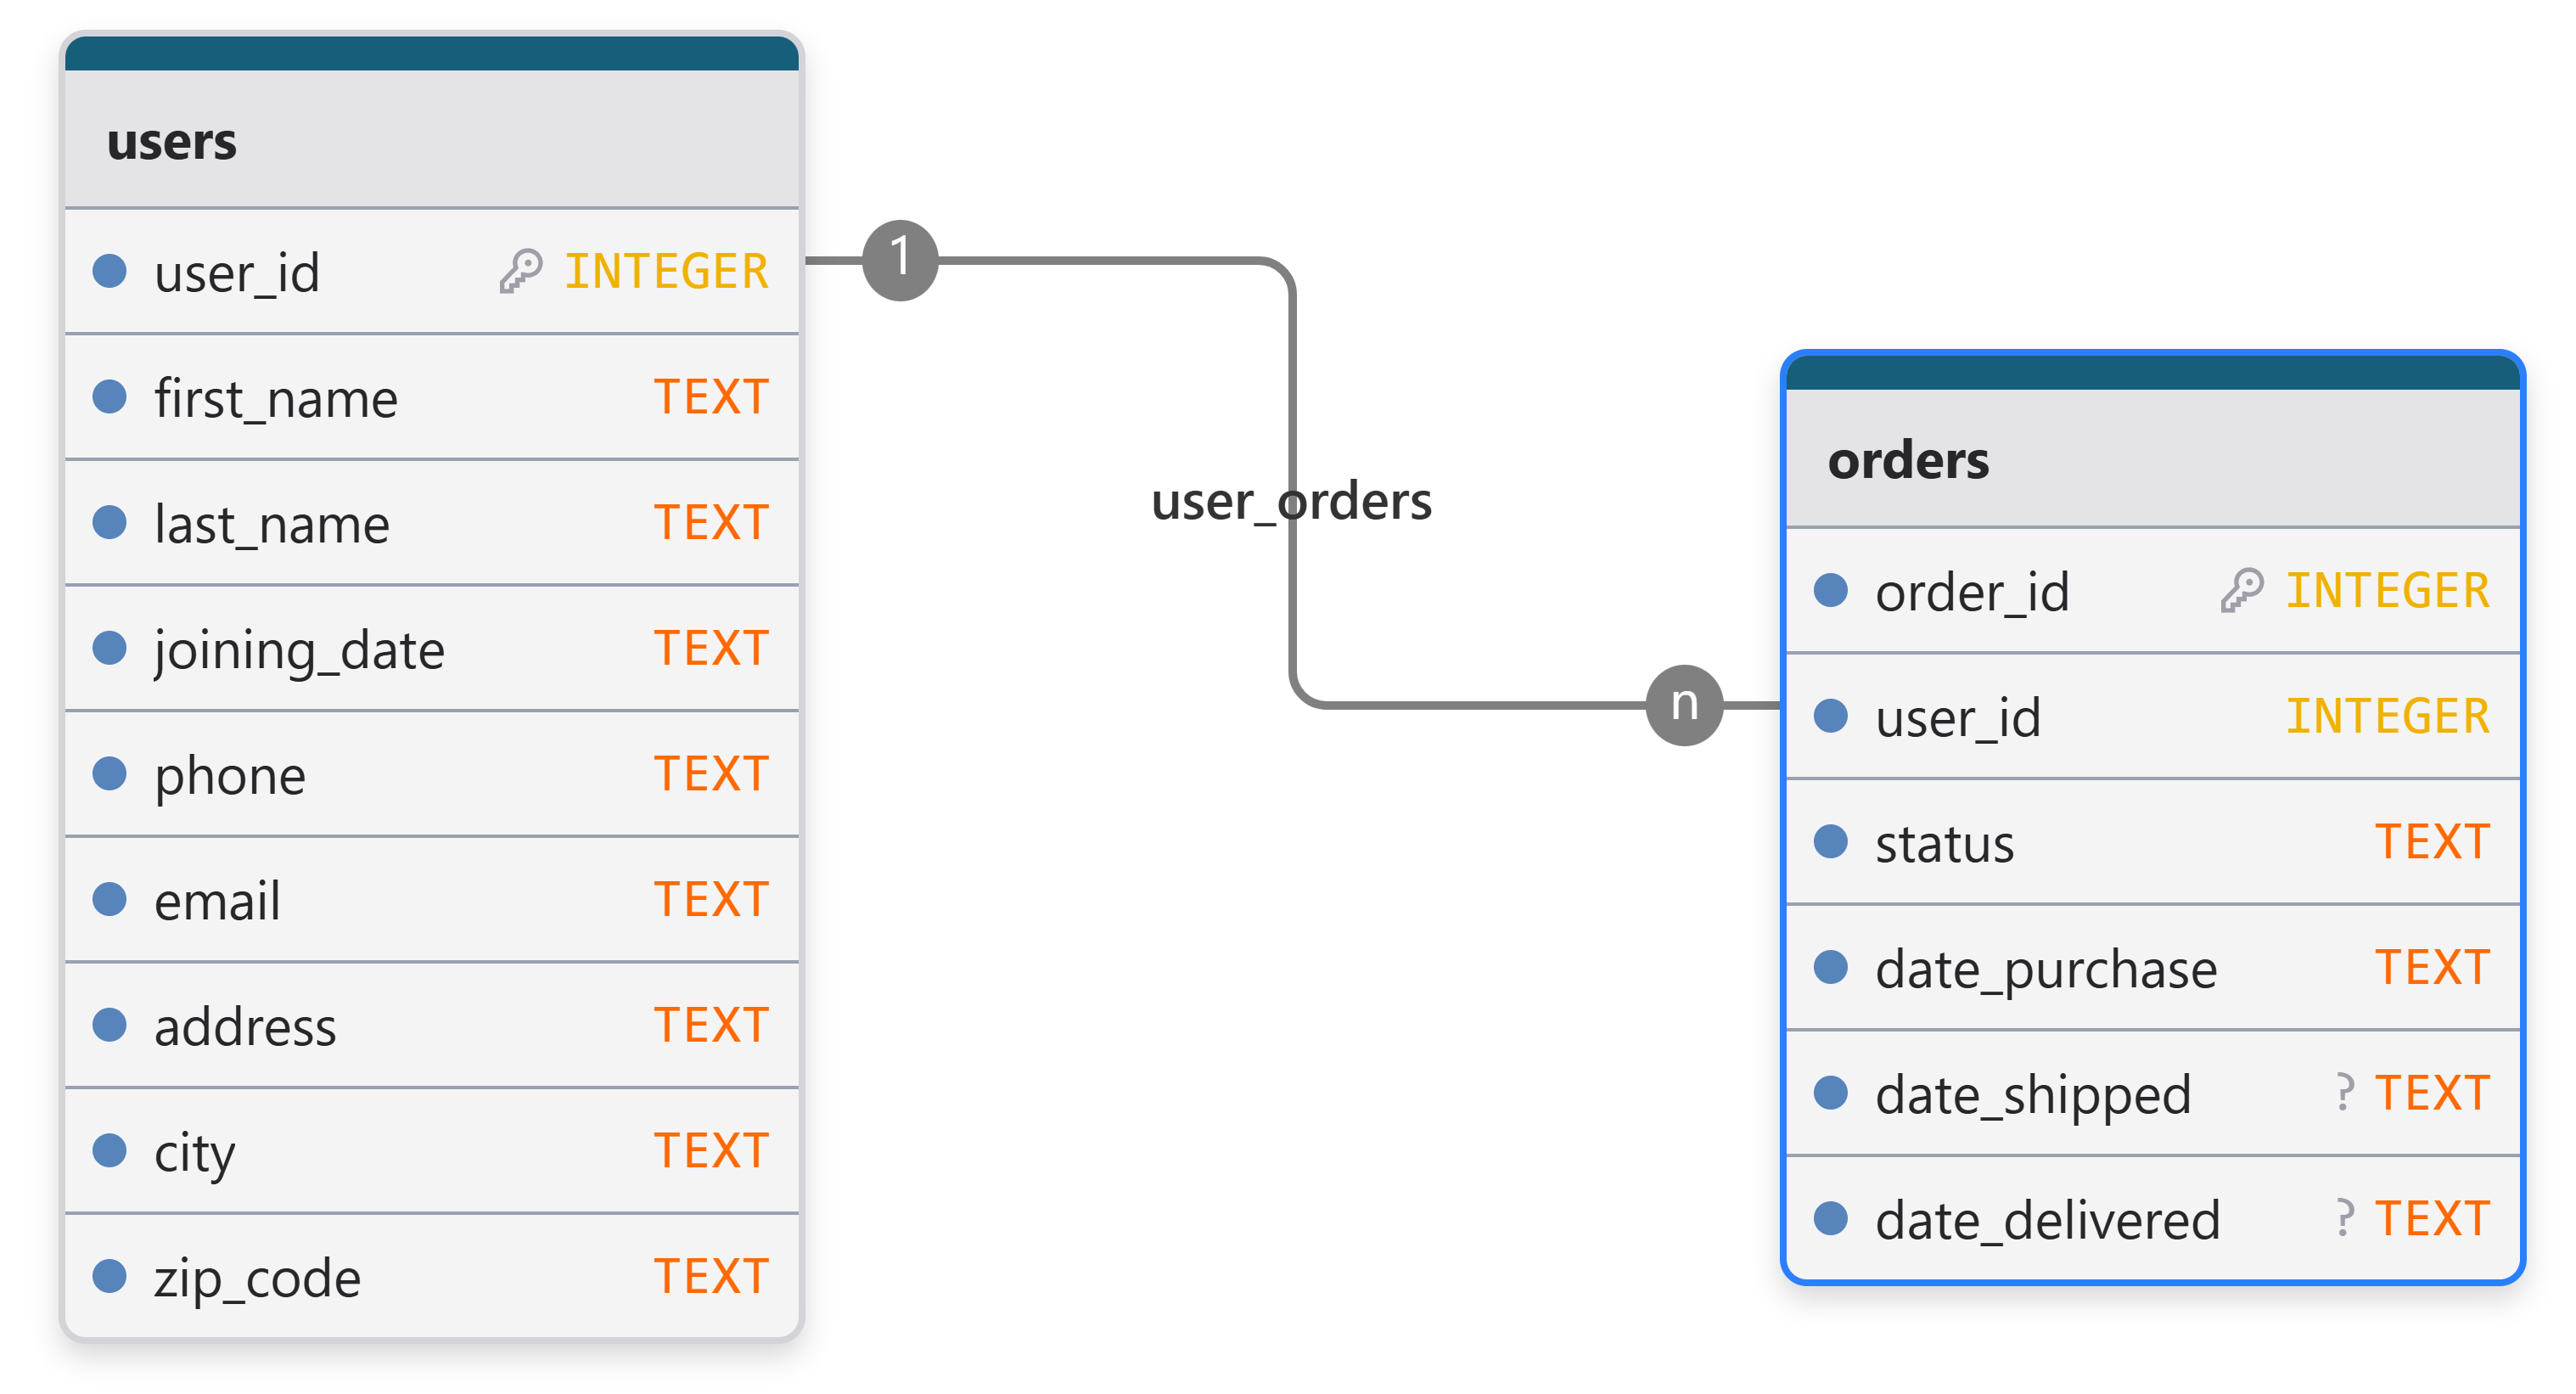
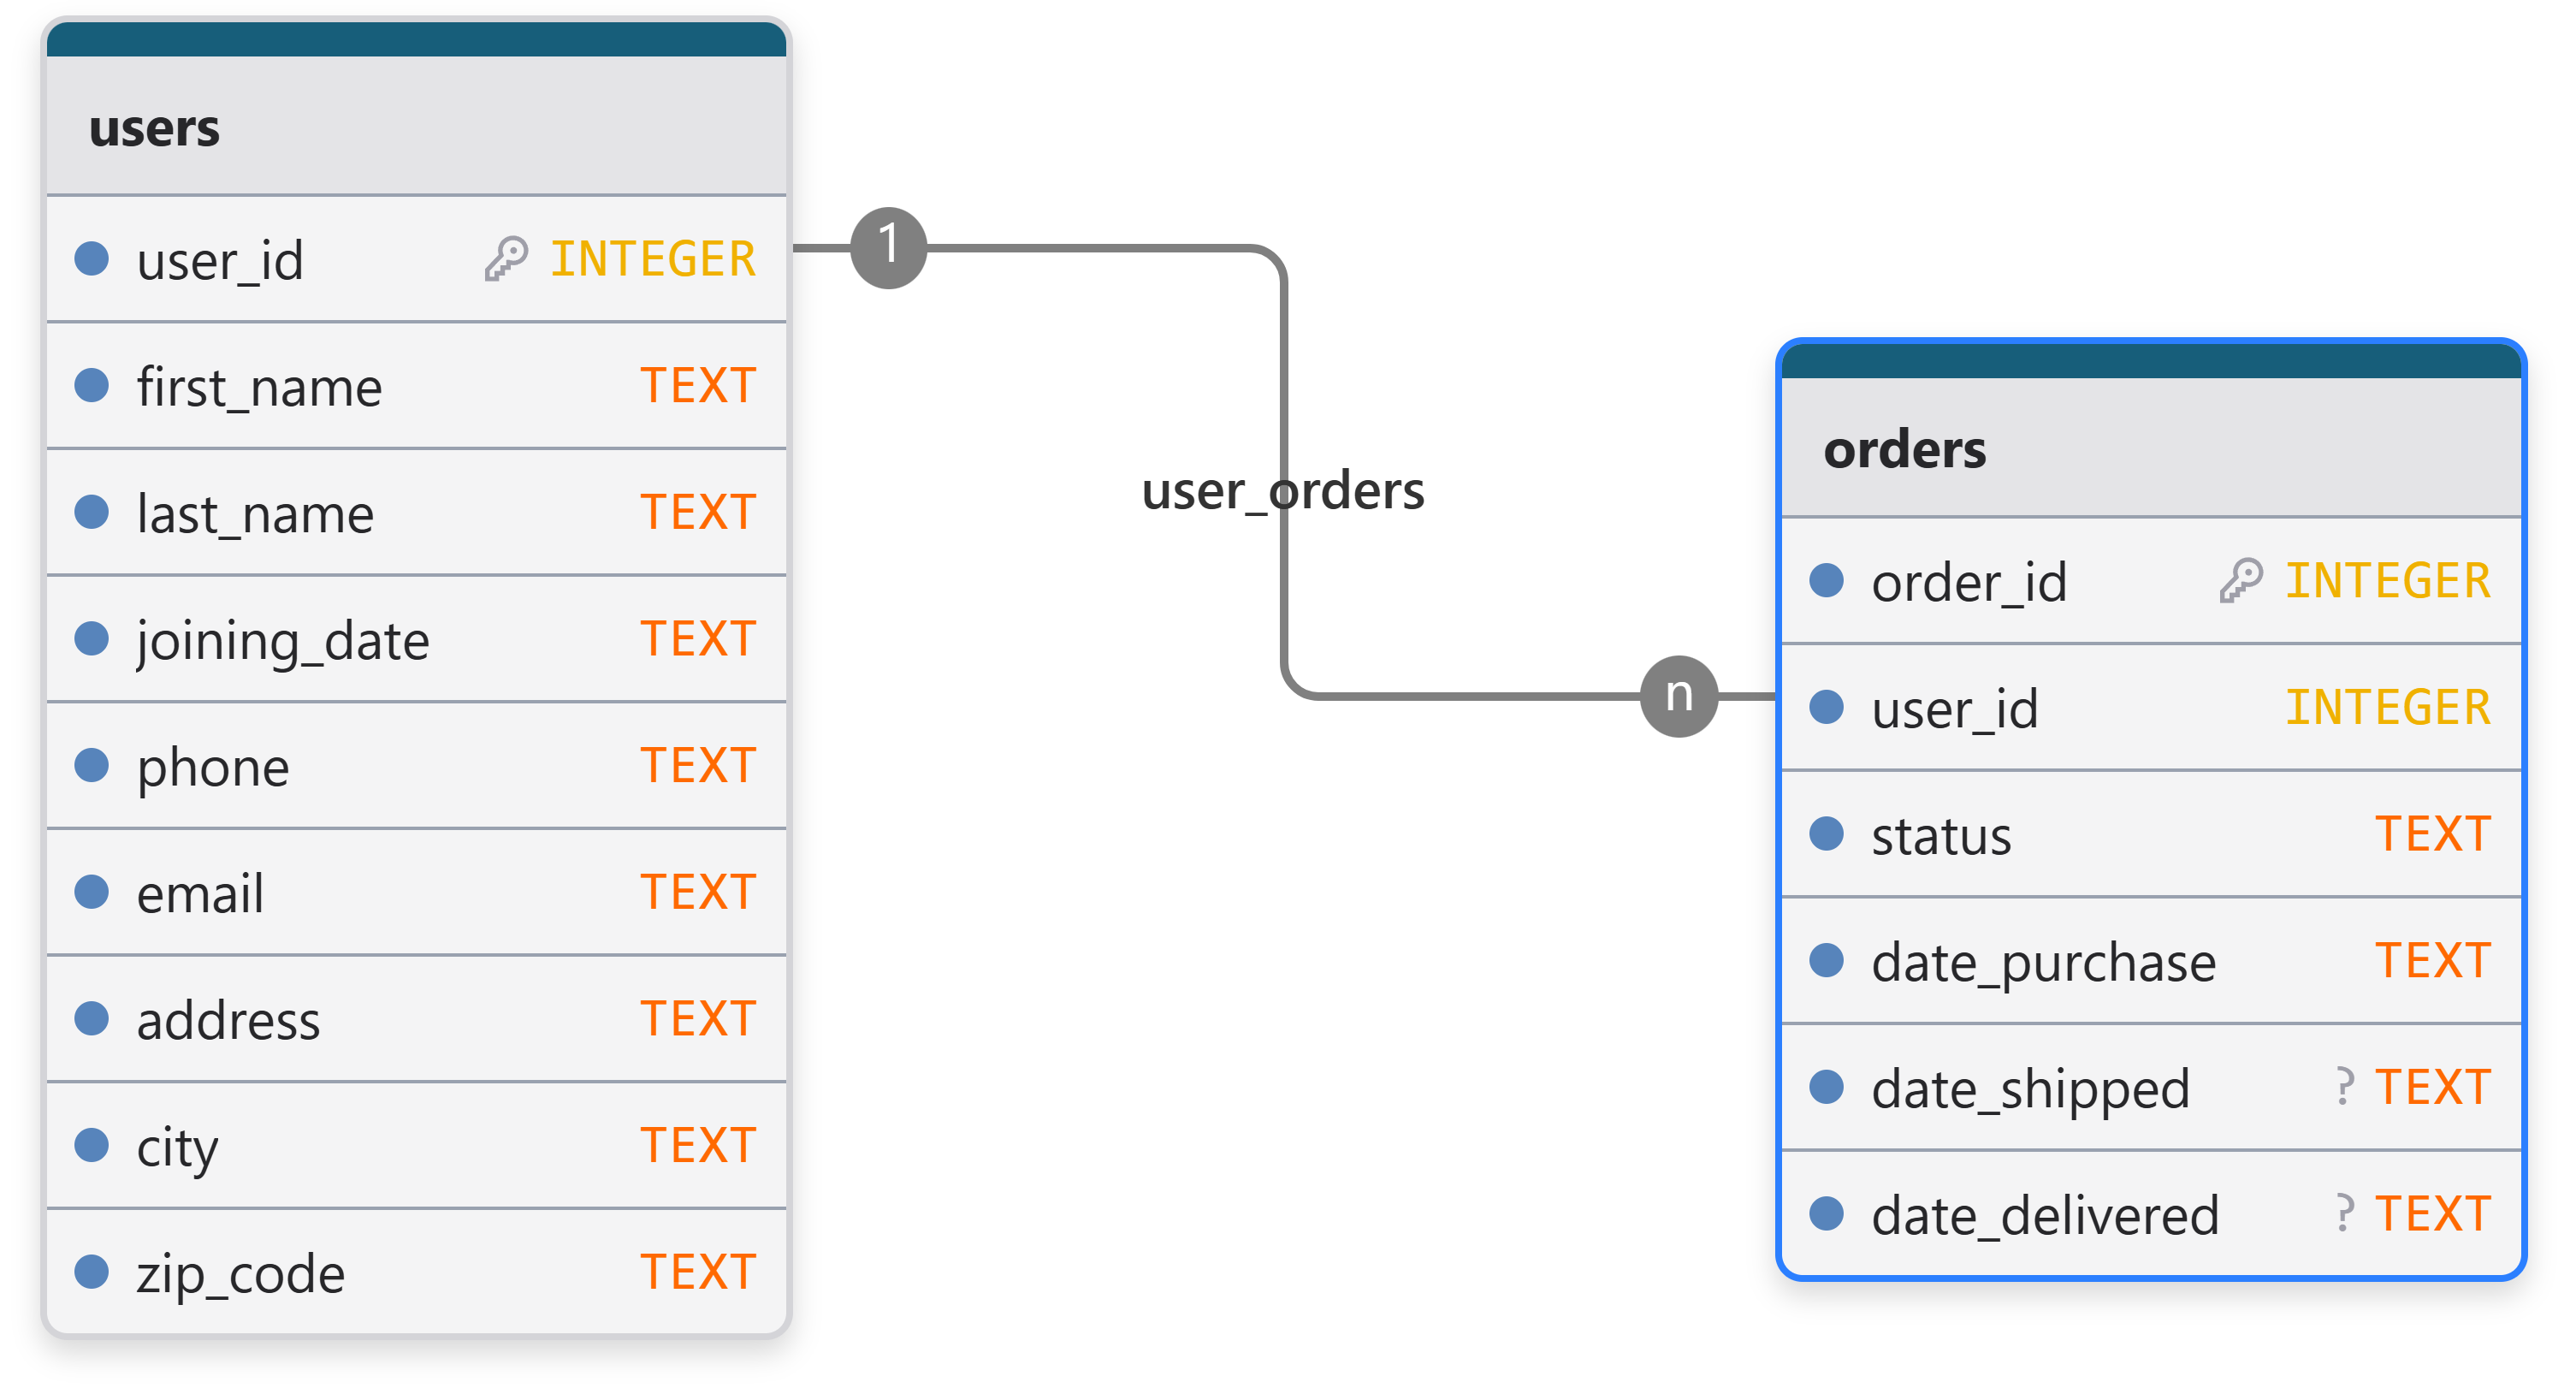
Correction du bug de réponse hors-schéma et mise à jour de l'interface
- Court-circuit LLM quand rows=None (SQL non exécuté ou en échec) pour éviter les
  réponses erronées sur les informations absentes de la base
- README mis à jour

diff --git a/src/app.py b/src/app.py
@@ -1,4 +1,5 @@
 from __future__ import annotations
+import dataclasses
 import uuid
 import streamlit as st
 from src.chain import build_graph, run_turn
@@ -7,23 +8,33 @@ from src.db import get_engine, get_user_by_email
 from src.llm import get_llm
 
 
[email redacted]_resource(show_spinner="Initialisation...")
-def _init_resources():
-    """Charge la configuration, le LLM et compile le graphe une fois."""
[email redacted]_resource(show_spinner=False)
+def _init_base():
+    """Charge la configuration et le moteur de base de données — sans LLM."""
     settings = load_settings()
     engine = get_engine(settings.db_path)
+    return settings, engine
+
+
[email redacted]_resource(show_spinner="Chargement du modèle...")
+def _get_graph(llm_backend: str):
+    """Charge le LLM et compile le graphe — une entrée de cache par backend."""
+    settings, engine = _init_base()
+    settings = dataclasses.replace(settings, llm_backend=llm_backend)
     llm = get_llm(settings)
-    graph = build_graph(
+    return build_graph(
         llm, engine,
         classifier_strategy=settings.classifier_strategy,
         advisor_phone=settings.advisor_phone,
     )
-    return settings, engine, graph
 
 
 def _sidebar_login(engine) -> dict | None:
     """Formulaire de connexion ou résumé du profil connecté."""
     with st.sidebar:
+        _, col, _ = st.columns([0.15, 0.7, 0.15])
+        with col:
+            st.image("assets/Logo rond assistant virtuel client.png", use_container_width=True)
         st.subheader("Identification")
 
         if "profile" not in st.session_state:
@@ -41,18 +52,26 @@ def _sidebar_login(engine) -> dict | None:
                         st.rerun()
         else:
             p = st.session_state.profile
-            st.success("Vous êtes connecté(e)")
             with st.container(border=True):
-                st.write(f"**Prénom :** {p['first_name']}")
-                st.write(f"**Nom :** {p['last_name']}")
-                st.write(f"**Email :** {p['email']}")
-                st.write(f"**Réf. client :** {p['user_id']}")
+                st.success("Vous êtes connecté(e)")
+                st.caption(f"**Prénom :** {p['first_name']}")
+                st.caption(f"**Nom :** {p['last_name']}")
+                st.caption(f"**Email :** {p['email']}")
+                st.caption(f"**Réf. client :** {p['user_id']}")
             if st.button("Se déconnecter", use_container_width=True):
                 for key in ["profile", "messages", "thread_id", "last_state"]:
                     st.session_state.pop(key, None)
                 st.rerun()
 
     return st.session_state.get("profile")
+
+def _sidebar_options() -> str:
+    """Expander Options — retourne le backend LLM sélectionné ('local' | 'api')."""
+    with st.sidebar:
+        with st.expander("Options", expanded=False):
+            use_api = st.toggle("API Mistral", value=False)
+            st.caption("Local (modèle quantisé)" if not use_api else "API Mistral hébergée")
+    return "api" if use_api else "local"
 
 
 def _sidebar_log(state: dict) -> None:
@@ -80,9 +99,23 @@ def _welcome_message(first_name: str) -> str:
 def main() -> None:
     st.set_page_config(page_title="Assistant service client", page_icon="🛒")
     st.title("Assistant service client")
+    st.markdown(
+        """
+        <style>
+        [data-testid="stMarkdownContainer"] hr {
+            margin-top: 0.25rem;
+            margin-bottom: 1.25rem;
+            border-top: 0.5px solid rgba(49, 51, 63, 0.2);
+        }
+        </style>
+        """,
+        unsafe_allow_html=True,
+    )
 
-    settings, engine, graph = _init_resources()
+    settings, engine = _init_base()
     profile = _sidebar_login(engine)
+    st.sidebar.divider()
+    llm_backend = _sidebar_options()
 
     if profile is None:
         st.info("Identifiez-vous dans la barre latérale pour commencer.")
@@ -106,6 +139,7 @@ def main() -> None:
 
         with st.chat_message("assistant"):
             with st.spinner("Recherche en cours..."):
+                graph = _get_graph(llm_backend)
                 state = run_turn(
                     graph,
                     user_id=profile["user_id"],

diff --git a/src/chain/graph.py b/src/chain/graph.py
@@ -103,30 +103,41 @@ def _node_generate_sql(state: GrapheState, *, llm: BaseChatModel) -> GrapheState
 def _node_execute_sql(state: GrapheState, *, engine: Engine) -> GrapheState:
     sql = state.get("sql") or ""
 
-    # Recherche la présence de mots interdits dans la requête
+    # Toutes les gardes ci-dessous retournent rows=None : le SQL n'a pas été exécuté,
+    # ce qui déclenche la réponse courte "information non disponible" dans format_answer.
     if BLACKLIST_SQL.search(sql):
-        return {**state, "rows": [], "sql": None}
+        return {**state, "rows": None, "sql": None}
 
-    # Filtre sur le fait que la requête soit bien une SELECT
     if not sql.lstrip().lower().startswith("select"):
-        return {**state, "rows": [], "sql": None}
+        return {**state, "rows": None, "sql": None}
 
-    # Vérifie programmatiquement que le filtre user_id est présent, sans se fier au LLM.
     if ":user_id" not in sql:
-        return {**state, "rows": [], "sql": None}
+        return {**state, "rows": None, "sql": None}
 
     try:
         rows = run_select(engine, sql, {"user_id": state["user_id"]})
     except Exception:
-        rows = []
+        # None signale une erreur d'exécution (schéma manquant, colonne inexistante...)
+        # à distinguer d'un résultat vide légitime (rows = []).
+        rows = None
     return {**state, "rows": rows}
 
 # Noeud de génération de la réponse - 2ème appel du LLM
 def _node_format_answer(state: GrapheState, *, llm: BaseChatModel) -> GrapheState:
     profile = state["user_profile"]
-    rows = state.get("rows") or []
+    rows = state.get("rows")
 
-    # Assemblage du contexte
+    # rows = None → la requête SQL a échoué (table ou colonne absente du schéma).
+    # Cas déterministe : on court-circuite le LLM pour éviter toute hallucination.
+    if rows is None:
+        answer = (
+            "Je n'ai pas accès à cette information. "
+            "Pour plus de détails, n'hésitez pas à contacter notre service client."
+        )
+        new_entry = [{"question": state["question"], "sql": state.get("sql") or "", "answer": answer}]
+        return {**state, "answer": answer, "history": new_entry}
+
+    # rows = [] → requête valide mais aucun résultat correspondant
     context = (
         f"Client : {profile.get('first_name')} {profile.get('last_name')} "
         f"({profile.get('email')}).\n"

diff --git a/README.md b/README.md
@@ -21,94 +21,6 @@ L'assistant reçoit une question en français, identifie son intention, génère
 - Historique de conversation multi-tours via LangGraph `MemorySaver`
 - Deux stratégies de classification d'intention : LLM structuré ou embeddings sémantiques
 
-## Architecture
-
-![Graphe LangGraph](assets/graph.png)
-
-Le pipeline suit trois chemins selon l'intention détectée :
-
-- **commande / compte** → génération SQL → exécution → reformulation en langage naturel
-- **action_commande** → redirection vers un conseiller avec numéro de contact
-- **hors_sujet / hostile** → refus poli ou rejet sans réponse
-
-## Stack technique
-
-| Composant | Outil |
-|---|---|
-| Interface | Streamlit |
-| Orchestration LLM | LangGraph |
-| LLM (cloud) | Mistral AI via `langchain-mistralai` |
-| LLM (local) | HuggingFace Transformers + quantisation FP8 |
-| Classification sémantique | `sentence-transformers` |
-| Base de données | SQLite (SQLAlchemy, mode lecture seule) |
-| Validation | Pydantic |
-| Gestionnaire de paquets | uv |
-| Qualité | Ruff, mypy, pytest, pre-commit |
-| CI | GitHub Actions |
-| Conteneurisation | Docker |
-
-## Prérequis
-
-- Python 3.11+
-- [uv](https://docs.astral.sh/uv/) installé
-- Une clé API Mistral (backend `api`) — ou un GPU avec au moins 16 Go de VRAM (backend `local`)
-
-## Installation
-
-```bash
-git clone <repo-url>
-cd customer-service-assistant
-
-# Dépendances de développement
-uv sync --extra dev
-
-# Variables d'environnement
-cp .env.example .env
-# Renseigner au minimum MISTRAL_API_KEY et DB_PATH
-```
-
-Pour le backend local (modèle quantisé, téléchargement ~15 Go) :
-
-```bash
-uv sync --extra dev --extra local
-```
-
-## Configuration
-
-Toutes les variables sont définies dans `.env` (voir `.env.example`) :
-
-| Variable | Description | Valeurs |
-|---|---|---|
-| `DB_PATH` | Chemin vers la base SQLite | `data/raw/orders.db` |
-| `LLM_BACKEND` | Backend LLM | `api` \| `local` |
-| `MISTRAL_API_KEY` | Clé API Mistral | `sk-...` |
-| `MISTRAL_MODEL` | Modèle Mistral hébergé | `mistral-small-latest` |
-| `LOCAL_MODEL_ID` | Modèle HuggingFace (backend local) | `mistralai/Ministral-3-14B-Instruct-2512` |
-| `LOCAL_DEVICE_MAP` | Mapping GPU/CPU | `auto` |
-| `CLASSIFIER_STRATEGY` | Stratégie de classification d'intention | `llm` \| `semantic` |
-| `ADVISOR_PHONE` | Numéro affiché pour les demandes d'action | `06.07.06.07.06` |
-| `ENV` | Environnement d'exécution | `development` \| `production` |
-| `LOG_LEVEL` | Niveau de log | `INFO` |
-
-## Lancer l'application
-
-```bash
-uv run streamlit run src/app.py
-```
-
-L'interface est accessible sur `http://localhost:8501`.
-
-### Via Docker
-
-```bash
-docker build -t customer-service-assistant .
-
-docker run -p 8501:8501 \
-  -v $(pwd)/data:/app/data \
-  --env-file .env \
-  customer-service-assistant
-```
-
 ## Base de données
 
 ![Schéma SQL](docs/Schema_sql_customer_service.png)
@@ -138,18 +50,6 @@ La base SQLite (`data/raw/orders.db`) contient deux tables :
 
 Le schéma de référence est disponible dans [`docs/schema.sql`](docs/schema.sql).
 
-## Tests
-
-```bash
-# Suite complète
-uv run pytest
-
-# Avec rapport de couverture
-uv run pytest --cov=src --cov-report=term-missing
-```
-
-Les tests couvrent la validation SQL (sécurité et cloisonnement), le classificateur sémantique et le chargement des prompts YAML.
-
 ## Structure du projet
 
 ```
@@ -168,6 +68,94 @@ Les tests couvrent la validation SQL (sécurité et cloisonnement), le classific
 ├── Dockerfile
 └── pyproject.toml
 ```
+
+## Architecture de la partie langchain
+
+![Graphe LangGraph](docs/graph.png)
+
+Le pipeline suit trois chemins selon l'intention détectée :
+
+- **commande / compte** pour les demandes légitimes auxquelles l'assistant peut répondre → génération SQL → exécution → reformulation en langage naturel
+- **action_commande** pour les demandes légitimes auxquelles l'assistant ne peut pas répondre → redirection vers un conseiller avec numéro de contact
+- **hors_sujet / hostile** pour les demandes inappropriées → refus poli ou rejet sans réponse
+
+## Stack technique
+
+| Composant | Outil |
+|---|---|
+| Interface | Streamlit |
+| Orchestration LLM | LangGraph |
+| LLM (cloud) | Mistral AI via `langchain-mistralai` |
+| LLM (local) | HuggingFace Transformers + quantisation FP8 |
+| Classification sémantique | `sentence-transformers` |
+| Base de données | SQLite (SQLAlchemy, mode lecture seule) |
+| Validation | Pydantic |
+| Gestionnaire de paquets | uv |
+| Qualité | Ruff, mypy, pytest, pre-commit |
+| CI | GitHub Actions |
+| Conteneurisation | Docker |
+
+## Prérequis
+
+- Python 3.11+
+- [uv](https://docs.astral.sh/uv/) installé
+- Une clé API Mistral (backend `api`) — ou un GPU avec au moins 16 Go de VRAM (backend `local`)
+
+## Installation
+
+```bash
+git clone https://github.com/arnaud-dg/Customer_Service_Assistant_Project_Blent.git
+cd customer-service-assistant
+
+# Dépendances de développement
+uv sync --extra dev
+
+# Variables d'environnement
+cp .env.example .env
+# Renseigner au minimum MISTRAL_API_KEY et DB_PATH
+```
+
+Pour le backend local (modèle quantisé, téléchargement ~15 Go) :
+
+```bash
+uv sync --extra dev --extra local
+```
+
+## Lancer l'application
+
+```bash
+uv run streamlit run src/app.py
+```
+
+L'interface est accessible sur `http://localhost:8501`.
+
+### Via Docker
+
+```bash
+docker build -t customer-service-assistant .
+
+docker run -p 8501:8501 \
+  -v $(pwd)/data:/app/data \
+  --env-file .env \
+  customer-service-assistant
+```
+
+## Tests unitaires
+
+```bash
+# Suite complète
+uv run pytest
+
+# Avec rapport de couverture
+uv run pytest --cov=src --cov-report=term-missing
+```
+
+Les tests couvrent la validation SQL (sécurité et cloisonnement), le classificateur sémantique et le chargement des prompts YAML.
+
+## Tests métiers
+
+Le fichier validation.py permet de lancer un test de validation sur 
+60 questions de référence (src/prompt/golden_dataset_v1.0.yaml) vérifiées humainement.
 
 ## Auteur
 